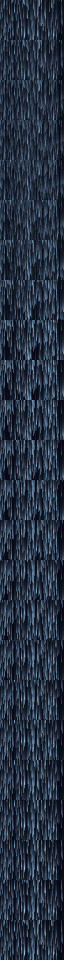
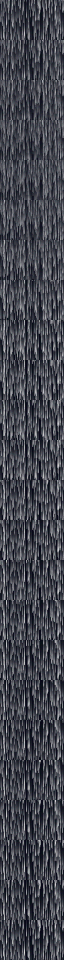
Effects: tile fix pass, part 2 (#16)
The rest of the fix pass on the effect tiles.

- A pixel is lit by its lightness (CIE L*, at least 12 of 100), not by the sum
  of its channels: the sum counted a near-black grey as lit, so a black tile
  could pass the bar. A vivid blue or violet still counts for what it is, which
  the plain luma does not (Solid's default violet is a luma of 38 of 255).
- Breathing's tile starts half way through the swell with a 20 % trough, so it
  shows its pulse and is not Solid's tile; a new test says so.
- A choice in a recipe must be one the file offers.
- The CHANGELOG says what the bar is, that a tile's loop is simulated time
  (Breathing twice as fast, Wet Smear eight times, Palette Knife twelve), and
  that a tile with no recipe is rendered in short steps, so it can differ a
  little from the effect on the lights.
- The editor's demo thumbnails are re-rendered with the fixed effects.

diff --git a/crates/canvas-daemon/src/thumbnail.rs b/crates/canvas-daemon/src/thumbnail.rs
@@ -37,8 +37,13 @@ const MAX_RECIPE_SECONDS: f64 = 30.0;
 /// The shortest loop a recipe may ask for, in seconds.
 const MIN_LOOP_SECONDS: f64 = 0.5;
 
-/// A pixel is lit when its R + G + B (0..=255 each) is above this.
-pub const LIT_SUM: u32 = 45;
+/// A pixel is lit when its lightness (CIE L*, 0..=100) is at least this.
+///
+/// Lightness, not the sum of the channels: the sum counted a near-black grey as lit, so a
+/// black tile could pass the lit bar. L* measures what a pixel looks like, so a blue or a
+/// violet counts for what it is and not for how little green it has. A neutral grey has to
+/// be brighter than about 31 of 255 to count.
+pub const LIT_LIGHTNESS: f64 = 12.0;
 /// The quality bar: the average lit share of the frames is at least this.
 pub const BAR_LIT_AVG: f64 = 0.60;
 /// The quality bar: the last frame differs from the first by at most this share of full
@@ -163,8 +168,8 @@ fn crossfade(mut tiles: Vec<Vec<u8>>, fade: usize) -> Vec<Vec<u8>> {
     tiles
 }
 
-/// What a tile measures, the way the issue's table did: a pixel is lit when R + G + B is
-/// above [`LIT_SUM`].
+/// What a tile measures, the way the issue's table did: a pixel is lit when its lightness is
+/// at least [`LIT_LIGHTNESS`].
 #[derive(Debug, Clone, Copy, PartialEq)]
 pub struct TileScore {
     /// The share of lit pixels in the first frame, 0..=1.
@@ -209,7 +214,7 @@ pub fn score(body: &[u8]) -> Option<TileScore> {
         let mut lit = 0usize;
         for i in 0..w * h {
             let px = &frame[i * 3..i * 3 + 3];
-            if px[0] as u32 + px[1] as u32 + px[2] as u32 > LIT_SUM {
+            if lightness(px) >= LIT_LIGHTNESS {
                 lit += 1;
                 ever[i] = true;
             }
@@ -237,6 +242,34 @@ pub fn score(body: &[u8]) -> Option<TileScore> {
         step: if steps.is_empty() { 0.0 } else { steps.iter().sum::<f64>() / steps.len() as f64 },
         max_step: steps.iter().copied().fold(0.0, f64::max),
     })
+}
+
+/// The lightness of one pixel, 0..=100: the CIE L* of its sRGB values.
+///
+/// L* is the perceptual lightness: it is 0 for black and 100 for white, and it weighs the
+/// channels the way the eye does after the gamma curve, so a blue or a violet is as light as
+/// it looks and not as light as its channel sum says.
+pub fn lightness(px: &[u8]) -> f64 {
+    let y = 0.2126 * linear(px[0]) + 0.7152 * linear(px[1]) + 0.0722 * linear(px[2]);
+    if y <= 0.008_856 {
+        903.3 * y
+    } else {
+        116.0 * y.cbrt() - 16.0
+    }
+}
+
+/// One sRGB channel (0..=255) as a linear light, 0..=1.
+fn linear(channel: u8) -> f64 {
+    static LINEAR: std::sync::OnceLock<[f64; 256]> = std::sync::OnceLock::new();
+    let table = LINEAR.get_or_init(|| {
+        let mut t = [0.0f64; 256];
+        for (i, v) in t.iter_mut().enumerate() {
+            let c = i as f64 / 255.0;
+            *v = if c <= 0.040_45 { c / 12.92 } else { ((c + 0.055) / 1.055).powf(2.4) };
+        }
+        t
+    });
+    table[channel as usize]
 }
 
 /// What a tile fails of the bar, as sentences. Empty when it passes.
@@ -486,6 +519,46 @@ mod tests {
         }
     }
 
+    /// A tile of one flat colour, scored.
+    fn score_of_a_flat_colour(rgb: [u8; 3]) -> TileScore {
+        let mut body = Vec::new();
+        for v in [8u16, 8, 1] {
+            body.extend_from_slice(&v.to_le_bytes());
+        }
+        for _ in 0..8 * 8 {
+            body.extend_from_slice(&rgb);
+        }
+        score(&body).expect("a well formed tile")
+    }
+
+    #[test]
+    fn a_dim_grey_is_not_lit_and_a_vivid_colour_is() {
+        // A near-black grey adds up to 48, so the old "R + G + B above 45" rule counted it
+        // as lit.
+        let dim = score_of_a_flat_colour([16, 16, 16]);
+        assert_eq!(dim.lit_avg, 0.0, "a near-black grey is lit");
+        // A dim grey is not lit either.
+        assert_eq!(score_of_a_flat_colour([30, 30, 30]).lit_avg, 0.0, "a dim grey is lit");
+        // A mid grey is light enough.
+        assert_eq!(score_of_a_flat_colour([45, 45, 45]).lit_avg, 1.0, "a mid grey is not lit");
+        // A vivid violet, the Solid effect's default, is lit: lightness weighs the channels
+        // the way the eye does, so the blue and the red count.
+        assert_eq!(score_of_a_flat_colour([96, 0, 252]).lit_avg, 1.0, "a violet is not lit");
+        // A vivid blue too.
+        assert_eq!(score_of_a_flat_colour([0, 0, 255]).lit_avg, 1.0, "a blue is not lit");
+        // A lit grey.
+        assert_eq!(score_of_a_flat_colour([90, 90, 90]).lit_avg, 1.0, "a light grey is not lit");
+    }
+
+    #[test]
+    fn the_lightness_of_a_pixel_is_its_perceptual_light() {
+        assert!(lightness(&[0, 0, 0]) < 0.001);
+        assert!((lightness(&[255, 255, 255]) - 100.0).abs() < 0.01);
+        // A dim grey is well under the bar; a vivid colour is over it.
+        assert!(lightness(&[30, 30, 30]) < LIT_LIGHTNESS);
+        assert!(lightness(&[96, 0, 252]) >= LIT_LIGHTNESS);
+    }
+
     #[test]
     fn the_header_and_length_match_the_format() {
         let updates = Arc::new(AtomicU32::new(0));
@@ -549,15 +622,17 @@ mod tests {
     }
 
     #[test]
-    fn the_score_reads_the_issue_measures() {
+    fn the_score_reads_the_tile_the_bar_measures() {
         // Two 2x1 frames: the first has one lit pixel, the second two; the seam is the
-        // difference between them.
+        // difference between them. The pixels are ones the bar counts as lit (a dark red
+        // and a dark green): the bar counts a pixel by its lightness, so the channel a
+        // colour sits in does not decide it.
         let mut body = Vec::new();
         for v in [2u16, 1, 2] {
             body.extend_from_slice(&v.to_le_bytes());
         }
         body.extend_from_slice(&[100, 0, 0, 0, 0, 0]);
-        body.extend_from_slice(&[100, 0, 0, 0, 0, 50]);
+        body.extend_from_slice(&[100, 0, 0, 0, 50, 0]);
         let s = score(&body).expect("well formed");
         assert_eq!((s.lit_first, s.lit_last, s.lit_avg), (0.5, 1.0, 0.75));
         assert_eq!((s.rows_lit, s.cols_lit), (1, 2));
@@ -673,13 +748,13 @@ mod tests {
     }
 
     #[tokio::test]
-    async fn only_a_few_renders_run_at_once() {
+    async fn only_two_renders_run_at_once() {
         let cache = ThumbnailCache::default();
         let mut held = Vec::new();
-        for _ in 0..CONCURRENT_RENDERS {
+        for _ in 0..2 {
             held.push(cache.render_slot().await);
         }
-        // One more has to wait until a slot is given back.
+        // A third has to wait until a slot is given back.
         let waiting = tokio::time::timeout(std::time::Duration::from_millis(100), cache.render_slot()).await;
         assert!(waiting.is_err(), "a render slot was free beyond the limit");
         held.pop();

diff --git a/crates/canvas-daemon/tests/tile_quality.rs b/crates/canvas-daemon/tests/tile_quality.rs
@@ -133,6 +133,30 @@ fn the_tiles_of_moving_effects_move_and_do_not_cut() {
 }
 
 #[test]
+fn the_breathing_tile_is_not_the_solid_tile() {
+    // Breathing's tile must show the pulse, not stand still like Solid. Its first frame is
+    // half way through the swell, so it is dimmer than Solid's flat colour.
+    let mut breathing = canvas_effects::create("breathing").expect("Breathing builds");
+    let mut solid = canvas_effects::create("solid").expect("Solid builds");
+    let body = |effect: &mut Box<dyn Effect>| {
+        thumbnail::render_within(effect.as_mut(), &Props::new(), std::time::Duration::from_secs(60))
+            .expect("the render fits the test budget")
+    };
+    let first_mean = |body: &[u8]| -> f64 {
+        let w = u16::from_le_bytes([body[0], body[1]]) as usize;
+        let h = u16::from_le_bytes([body[2], body[3]]) as usize;
+        let frame = &body[6..6 + w * h * 3];
+        frame.iter().map(|v| *v as f64).sum::<f64>() / frame.len() as f64
+    };
+    let breathing_mean = first_mean(&body(&mut breathing));
+    let solid_mean = first_mean(&body(&mut solid));
+    assert!(
+        breathing_mean < solid_mean - 5.0,
+        "the breathing tile's first frame is as bright as Solid's ({breathing_mean} against {solid_mean})"
+    );
+}
+
+#[test]
 fn a_dark_tile_without_a_stated_reason_is_a_problem_and_with_one_it_is_not() {
     let dark = TileScore {
         lit_first: 0.1,

diff --git a/crates/canvas-daemon/src/bin/cli.rs b/crates/canvas-daemon/src/bin/cli.rs
@@ -373,6 +373,7 @@ fn effects_check(cli: &Cli, args: &canvas_daemon::cli::CheckArgs) -> Result<(), 
                     "max_step": t.score.max_step,
                     "bar": {
                         "lit_avg": canvas_daemon::thumbnail::BAR_LIT_AVG,
+                        "lit_lightness": canvas_daemon::thumbnail::LIT_LIGHTNESS,
                         "seam": canvas_daemon::thumbnail::BAR_SEAM,
                         "line_share": canvas_daemon::thumbnail::BAR_LINE_SHARE,
                     },
@@ -439,8 +440,9 @@ fn effects_check(cli: &Cli, args: &canvas_daemon::cli::CheckArgs) -> Result<(), 
                 s.step * 100.0
             );
             println!(
-                "tile bar    {:.0} % lit on average, every row and column {:.0} % lit over the loop, seam under {:.0} %",
+                "tile bar    {:.0} % lit on average (a pixel is lit when its lightness is at least {:.0} of 100), every row and column {:.0} % lit over the loop, seam under {:.0} %",
                 canvas_daemon::thumbnail::BAR_LIT_AVG * 100.0,
+                canvas_daemon::thumbnail::LIT_LIGHTNESS,
                 canvas_daemon::thumbnail::BAR_LINE_SHARE * 100.0,
                 canvas_daemon::thumbnail::BAR_SEAM * 100.0
             );

diff --git a/crates/canvas-daemon/examples/tile_probe.rs b/crates/canvas-daemon/examples/tile_probe.rs
@@ -29,10 +29,16 @@ fn main() {
         ..Default::default()
     };
     let mut sheet = None;
+    let mut budget = std::time::Duration::from_secs(900);
     let mut i = 4;
     while i < args.len() {
         if args[i] == "--sheet" {
             sheet = Some(args[i + 1].clone());
+            i += 2;
+            continue;
+        }
+        if args[i] == "--budget" {
+            budget = std::time::Duration::from_secs(args[i + 1].parse().expect("a budget in seconds"));
             i += 2;
             continue;
         }
@@ -55,8 +61,8 @@ fn main() {
     };
     let mut effect = Wrap(inner, recipe);
     let started = std::time::Instant::now();
-    let body = canvas_daemon::thumbnail::render_within(&mut effect, &Props::new(), std::time::Duration::from_secs(900))
-        .expect("renders");
+    let body = canvas_daemon::thumbnail::render_within(&mut effect, &Props::new(), budget)
+        .unwrap_or_else(|why| panic!("{why}"));
     let s = canvas_daemon::thumbnail::score(&body).unwrap();
     println!(
         "{id}: lit {:.0}% ({:.0}>{:.0}) rows {} cols {} seam {:.1}% step {:.1}% max {:.1}%  [{:.1?}]",

diff --git a/crates/canvas-effects/src/breathing.rs b/crates/canvas-effects/src/breathing.rs
@@ -45,8 +45,9 @@ impl Breathing {
             ],
         )
         // The tile covers one whole 4 s breath, so it loops; two seconds of warm-up put the first
-        // frame half way through the swell, so the still tile is dimmer than Solid and reads as a pulse.
-        .thumbnail(crate::schema::recipe(2.0, 4.0, 0, vec![]))
+        // frame half way through the swell, so the tile dims and brightens instead of standing
+        // still like Solid. The trough stays at 20 %, so the dimmest frame is still lit.
+        .thumbnail(crate::schema::recipe(2.0, 4.0, 0, vec![("min_brightness", crate::schema::num(20.0))]))
         .build()
     }
 

diff --git a/crates/canvas-html/src/lib.rs b/crates/canvas-html/src/lib.rs
@@ -661,7 +661,13 @@ fn thumbnail_recipe(
                 "false" | "0" => PropValue::Bool(false),
                 _ => return Err(bad()),
             },
-            PropKind::Choice { .. } => PropValue::Choice(text.to_string()),
+            PropKind::Choice { options, .. } => {
+                // A choice the file does not offer is not a valid value for it.
+                if !options.iter().any(|o| o == text) {
+                    return Err(bad());
+                }
+                PropValue::Choice(text.to_string())
+            }
         };
         recipe.props.insert(key.to_string(), value);
     }

diff --git a/crates/canvas-html/tests/effects.rs b/crates/canvas-html/tests/effects.rs
@@ -1077,6 +1077,7 @@ fn a_bad_thumbnail_meta_is_ignored_with_a_warning_and_the_effect_still_runs() {
         (r#"<meta thumbnail props="speed=NaN" />"#, "not a valid speed"),
         (r#"<meta thumbnail props="speed" />"#, "key=value"),
         (r#"<meta thumbnail props="glow=yes" />"#, "not a valid glow"),
+        (r#"<meta thumbnail props="style=z" />"#, "not a valid style"),
     ] {
         let mut effect = HtmlEffect::from_source("html:t", &with_recipe(tag), &Props::new())
             .unwrap_or_else(|e| panic!("{tag} must not stop the effect loading: {e}"));

diff --git a/CHANGELOG.md b/CHANGELOG.md
@@ -6,6 +6,10 @@ Every change people using canvas-rgb can notice is listed here. The format follo
 
 ## [Unreleased]
 
+### Changed
+
+- Every effect's library tile now passes a stated quality bar: at least 60 % of its pixels lit on average, every row and every column lit over the loop, and no jump of more than 10 % where the loop restarts (a tile that is meant to jump, a strobe, says so in its own recipe and is exempt from that bar only). An effect can say how its tile is rendered (warm-up, loop length, a crossfade, showcase settings): Rainbow Wave is no longer half black, Fire fills the tile and flickers, Rain is full from the first frame, Breathing shows its swell, Audio Spectrum and Screen Ambience move instead of standing still, and Palette Knife crossfades instead of cutting. Effect files carry the same in a `<meta thumbnail>` tag, and `canvas-rgb effects check` scores the tile, fails one under the bar and writes a GIF and a contact sheet with `--preview <dir>`. A tag that does not parse is ignored with a warning, and the effect still loads and runs. The library plays every tile at 12 frames a second, so a tile's loop is simulated time: Breathing's 4 s breath plays at twice the speed the effect runs, Wet Smear's at eight times and Palette Knife's at twelve times; a tile with no recipe of its own is rendered in steps of up to a fifteenth of a second, so it can differ slightly from the effect on the lights. A tile that cannot be rendered within 20 seconds is given up and the library shows none for that effect. (#16)
+
 ## [0.2.0] - 2026-10-31
 
 ### Added
@@ -27,7 +31,6 @@ Every change people using canvas-rgb can notice is listed here. The format follo
 
 ### Changed
 
-- Every effect's library tile now passes a stated quality bar (60 % lit on average, every row and column lit, no jump where the loop restarts). An effect can say how its tile is rendered (warm-up, loop length, a crossfade, showcase settings): Rainbow Wave is no longer half black, Fire fills the tile, Rain is full from the first frame and Breathing loops without a pop. Effect files carry the same in a `<meta thumbnail>` tag, and `canvas-rgb effects check` scores the tile, fails one under the bar and writes a GIF and a contact sheet with `--preview <dir>`. (#16)
 - The Displays preview draws the decimal point in its own slot between the digit cells (`4` `6` `.` `9`), not inside a cell; the row keeps its shape while the number counts. (#8)
 - Dragging a slider moves its cap and fill with the pointer, pixel for pixel, between steps; the value itself stays on the slider's steps and the cap settles onto the chosen step on release. (#13)
 

diff --git a/.claude/skills/canvas-rgb-effect/SKILL.md b/.claude/skills/canvas-rgb-effect/SKILL.md
@@ -64,9 +64,9 @@ effect actually draws.
 
 The same command renders the effect's library tile (64x40, 24 frames) the way the daemon
 does and scores it against the bar in `docs/effects.md` ("The library tile"): at least 60 %
-lit on average, every row and column lit, no jump where the loop restarts. A tile under the
-bar makes the check exit non-zero. The numbers are printed as `tile`, `tile seam` and
-`tile bar`.
+lit on average, every row and column lit, no jump of more than 10 % where the loop
+restarts. A tile under the bar makes the check exit non-zero. The numbers are printed as
+`tile`, `tile seam` and `tile bar`.
 
 ```
 canvas-rgb effects check my-effect.html --preview tile-preview

diff --git a/docs/effects.md b/docs/effects.md
@@ -89,7 +89,8 @@ effect; at most two tiles render at once. The library plays every tile at 12 fra
 effect runs.
 
 The quality bar a tile has to pass, measured on the 24 frames (a pixel is lit when its
-R + G + B is above 45 of 765):
+lightness, the CIE L\* of its colour, is at least 12 of 100: a near-black or dim grey is
+not lit and a vivid blue or violet is):
 
 - at least 60 % of the pixels lit on average (unless `dark_on_purpose` is set);
 - every row and every column lit: at least 25 % of its pixels lit in some frame of the loop;
